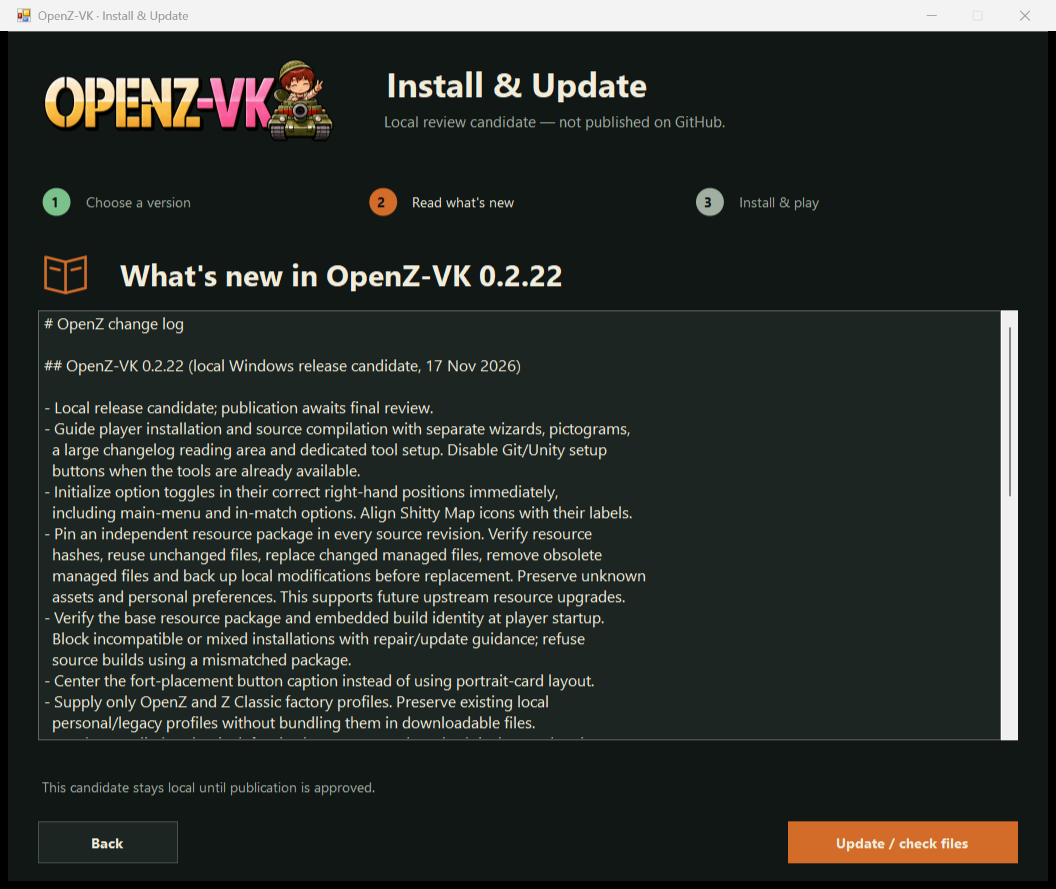
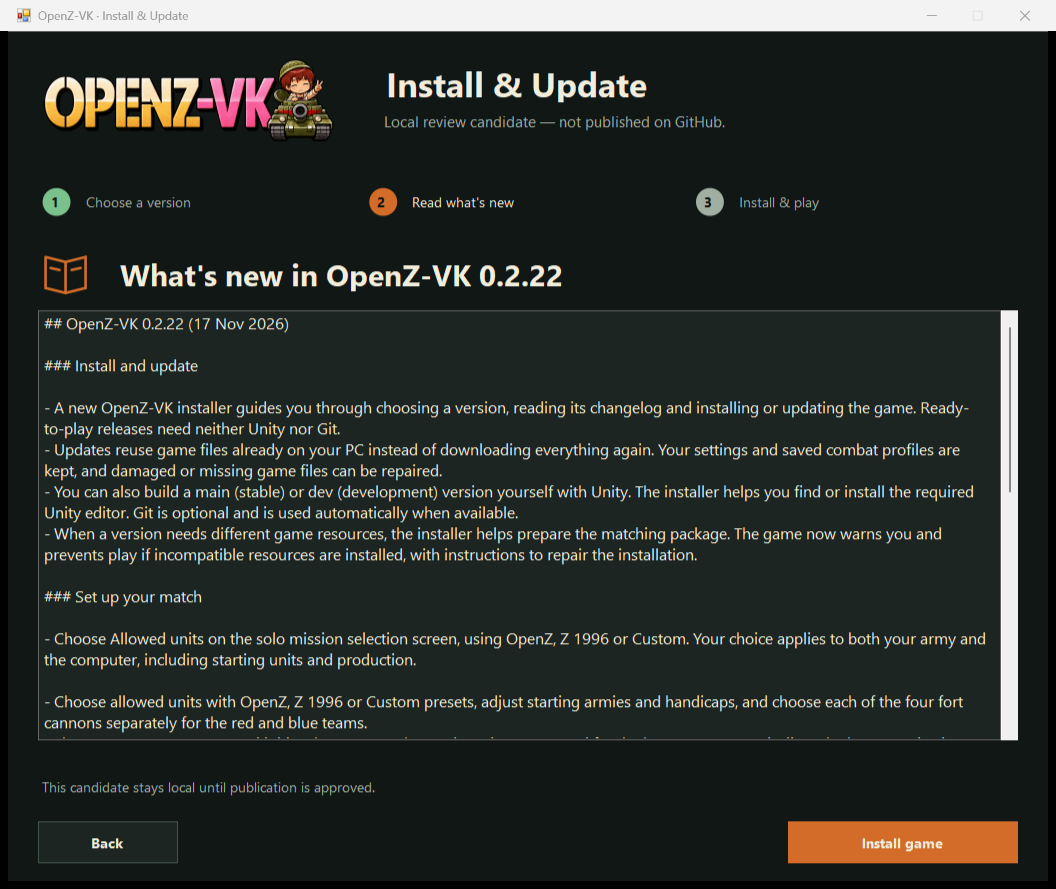
Refresh player notes and reviewed solo selection screenshots
Keep developer implementation and validation details out of player release notes. Preserve upstream history and use the supplied fork logo as the README opening image. Document and capture the shared solo/lobby unit catalogue and both Shitty Maps galleries. Record the 5440 simulation checks, native solo restrictions, final tile bounds and refreshed installer/archive verification; retain local-only publication status.

Changed region(s): [[0.0312, 0.4556, 0.9375, 0.82], [0.0625, 0.3341, 0.5, 0.4252], [0.7812, 0.9415, 0.9062, 0.9719]]

diff --git a/docs/PLAYER_VALIDATION.md b/docs/PLAYER_VALIDATION.md
@@ -1,6 +1,6 @@
 # Player validation record
 
-## Current local review adjustments
+## Current local review adjustments (validated)
 
 - Player changelogs now describe features, gameplay changes and visible fixes.
   Development details remain in commits and technical records. Upstream history
@@ -15,7 +15,17 @@
   Unity runtime source compilation. Updated player/menu/solo captures and packaging
   remain pending the requested release build below. Previous evidence is historical.
 
-## OpenZ-VK 0.2.22 local review candidate (17 Nov 2026)
+Current player: clean source f3b889745daaab362c066d444264eab7354a62a7,
+built 2026-11-17 17:07:01 UTC, resource package openz-1.4-vk-1.
+The final menu proof passes all 22 tile bounds, solo OpenZ/Z 1996/Custom selection,
+saved choices and restoration, lobby OpenZ/Z 1996 controls, and both Shitty Maps
+gallery titles/icons. Native captures are from menus-20261117-180956.
+The final solo mission also passes on source f3b88974 (solo-units-final-20261117-182113). The Unit Editor and host/guest L02 pass on source 450350cd;
+the final change only adjusts picker layout and its rendering check. The solo
+mission verifies both teams' production and starting-unit restrictions with an
+active CPU and no multiplayer rules. Simulation checks: 5,440 passed.
+
+## Earlier OpenZ-VK 0.2.22 candidate (17 Nov 2026)
 
 Release player: `builds/OpenZ-VK-0.2.22-Windows-x64/openz-vk.exe`.
 Unity stamped source `a4d87dad96076e746b6e8b9a71b47041a52c4c30`, clean,

diff --git a/README.md b/README.md
@@ -22,8 +22,8 @@ Fresh installations supply **OpenZ** and **Z Classic** reference profiles only. 
 **Z 1996 is a unit-availability preset, not a complete historical rules mode.** Custom dynamics do not promise identical behavior to Z or The Zod Engine. Existing preferences and saved profiles are retained across updates.
 
 <table>
-  <tr><td><img src="media/review-0.2.22/main-menu.png" alt="OpenZ-VK main menu"></td><td><img src="media/review-0.2.22/shared-rules.png" alt="Shared lobby rules and centered fort placement"></td></tr>
-  <tr><td><img src="media/review-0.2.22/behavior-game-dropdown-tanks.png" alt="Native combat profile selection"></td><td><img src="media/review-0.2.22/behavior-tanks-0.png" alt="Unit Editor dynamics"></td></tr>
+  <tr><td><img src="media/review-0.2.22/solo-selection.png" alt="Solo mission selection and Allowed units"></td><td><img src="media/review-0.2.22/shared-rules.png" alt="Shared lobby rules and centered fort placement"></td></tr>
+  <tr><td><img src="media/review-0.2.22/solo-allowed-z1996.png" alt="Solo allowed-unit selection"></td><td><img src="media/review-0.2.22/behavior-tanks-0.png" alt="Unit Editor dynamics"></td></tr>
   <tr><td><img src="media/review-0.2.22/shitty-maps-arctic.png" alt="Shitty Maps Arctic gallery"></td><td><img src="media/review-0.2.22/shitty-maps-expansion.png" alt="Shitty Maps Z Expansion gallery"></td></tr>
 </table>
 

diff --git a/AGENTS.md b/AGENTS.md
@@ -31,7 +31,7 @@
 - A playable release must contain the entire player output folder and identify its source commit. Do not describe a source commit as a downloadable player release.
 - A user request to "release" authorizes pushing the completed source to GitHub, updating the public README and version changelog, rebuilding the release ZIPs and uploading them to GitHub. Increment the fork/release version for future releases. The current 0.2.7 replacement is an explicit one-time exception: replace its previous build and assets while retaining version 0.2.7.
 - Multiplayer tank and robot dynamics are host-owned lobby rules, frozen for the match. Do not offer profile changes in the in-game options. Clients may prepare a local grouped proposal; only host acceptance changes official rules. Expire proposals and require draft refresh after an official revision change.
-- Keep every OpenZ/OpenZ-VK logo dark orange. Use violet to identify fork-added game options outside the lobby; the lobby itself uses the ordinary orange/neutral presentation.
+- Keep text-only OpenZ/OpenZ-VK wordmarks dark orange; preserve the supplied image logo and its original colors. Use violet to identify fork-added game options outside the lobby; the lobby itself uses the ordinary orange/neutral presentation.
 
 ## OpenZ-VK presentation and compatibility
 

diff --git a/docs/CHANGELOG.md b/docs/CHANGELOG.md
@@ -4,9 +4,9 @@
 
 ### Install and update
 
-- A new OpenZ-VK installer guides you through choosing a version, reading its changelog and installing or updating the game. Published players need neither Unity nor Git.
+- A new OpenZ-VK installer guides you through choosing a version, reading its changelog and installing or updating the game. Ready-to-play releases need neither Unity nor Git.
 - Updates reuse game files already on your PC instead of downloading everything again. Your settings and saved combat profiles are kept, and damaged or missing game files can be repaired.
-- You can also choose a stable main or development dev source version and build it yourself. This requires Unity; the installer helps you find or install the right editor. Git is optional and is used automatically when available.
+- You can also build a main (stable) or dev (development) version yourself with Unity. The installer helps you find or install the required Unity editor. Git is optional and is used automatically when available.
 - When a version needs different game resources, the installer helps prepare the matching package. The game now warns you and prevents play if incompatible resources are installed, with instructions to repair the installation.
 
 ### Set up your match
